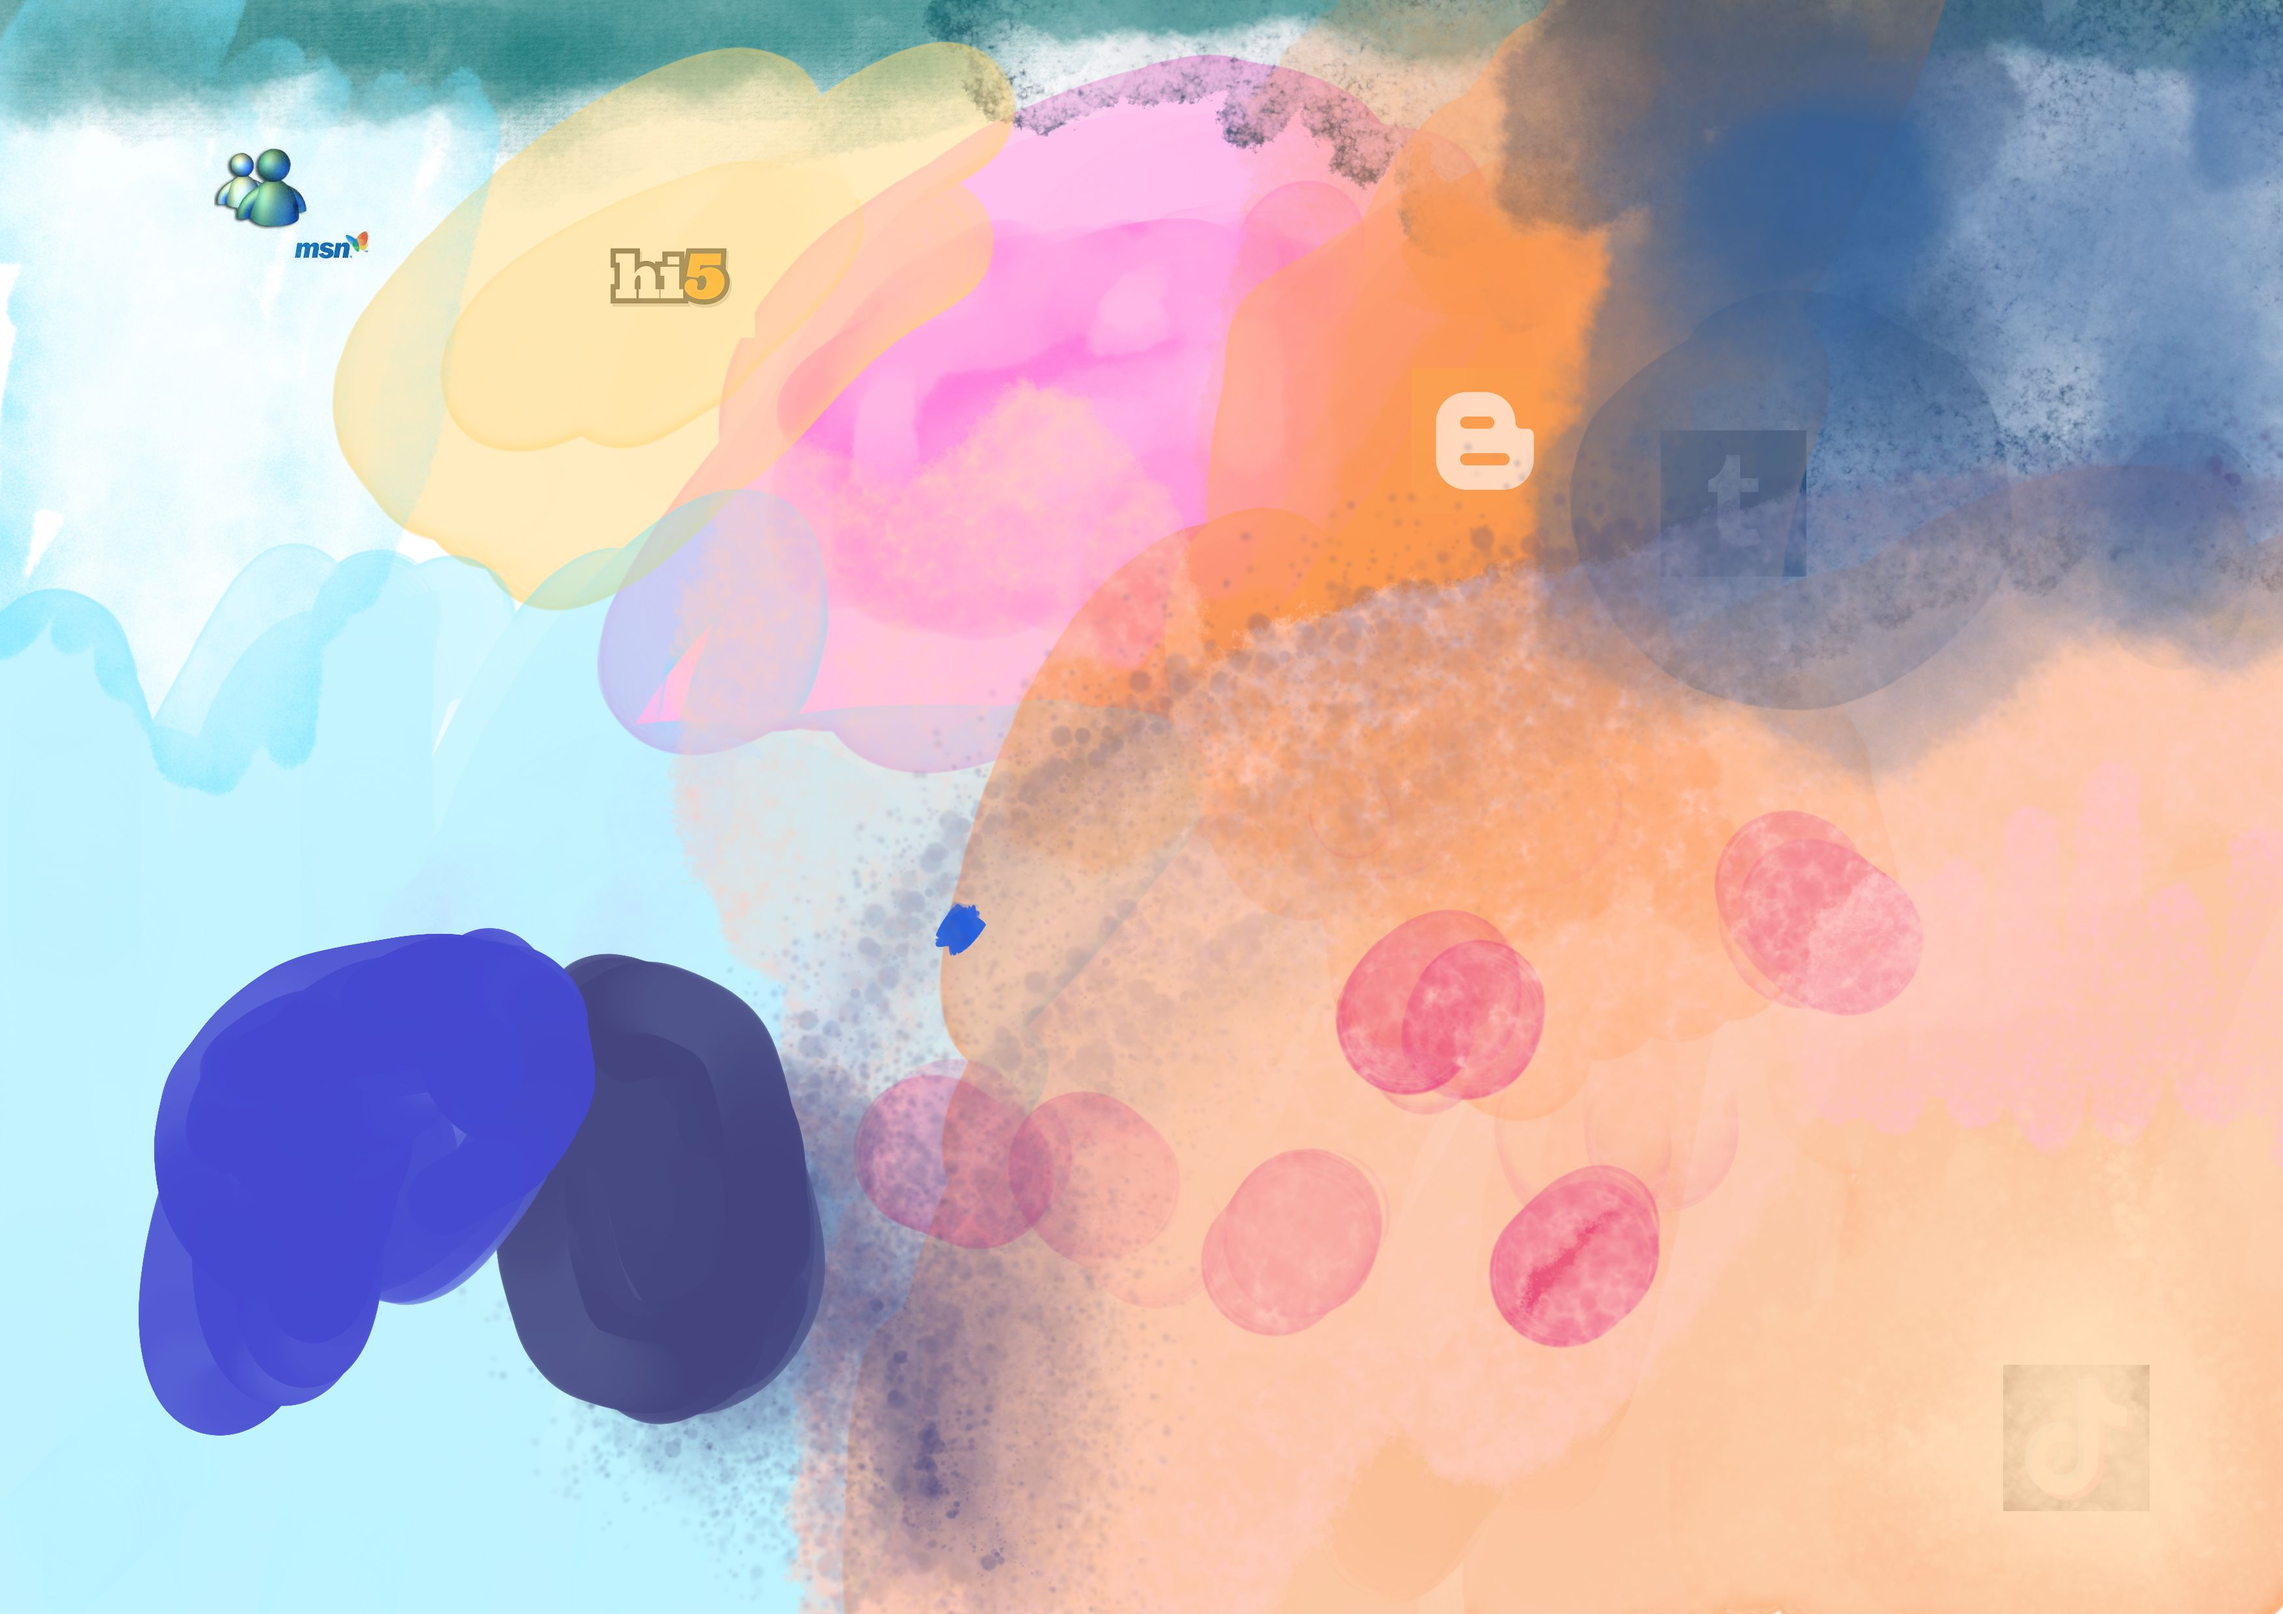
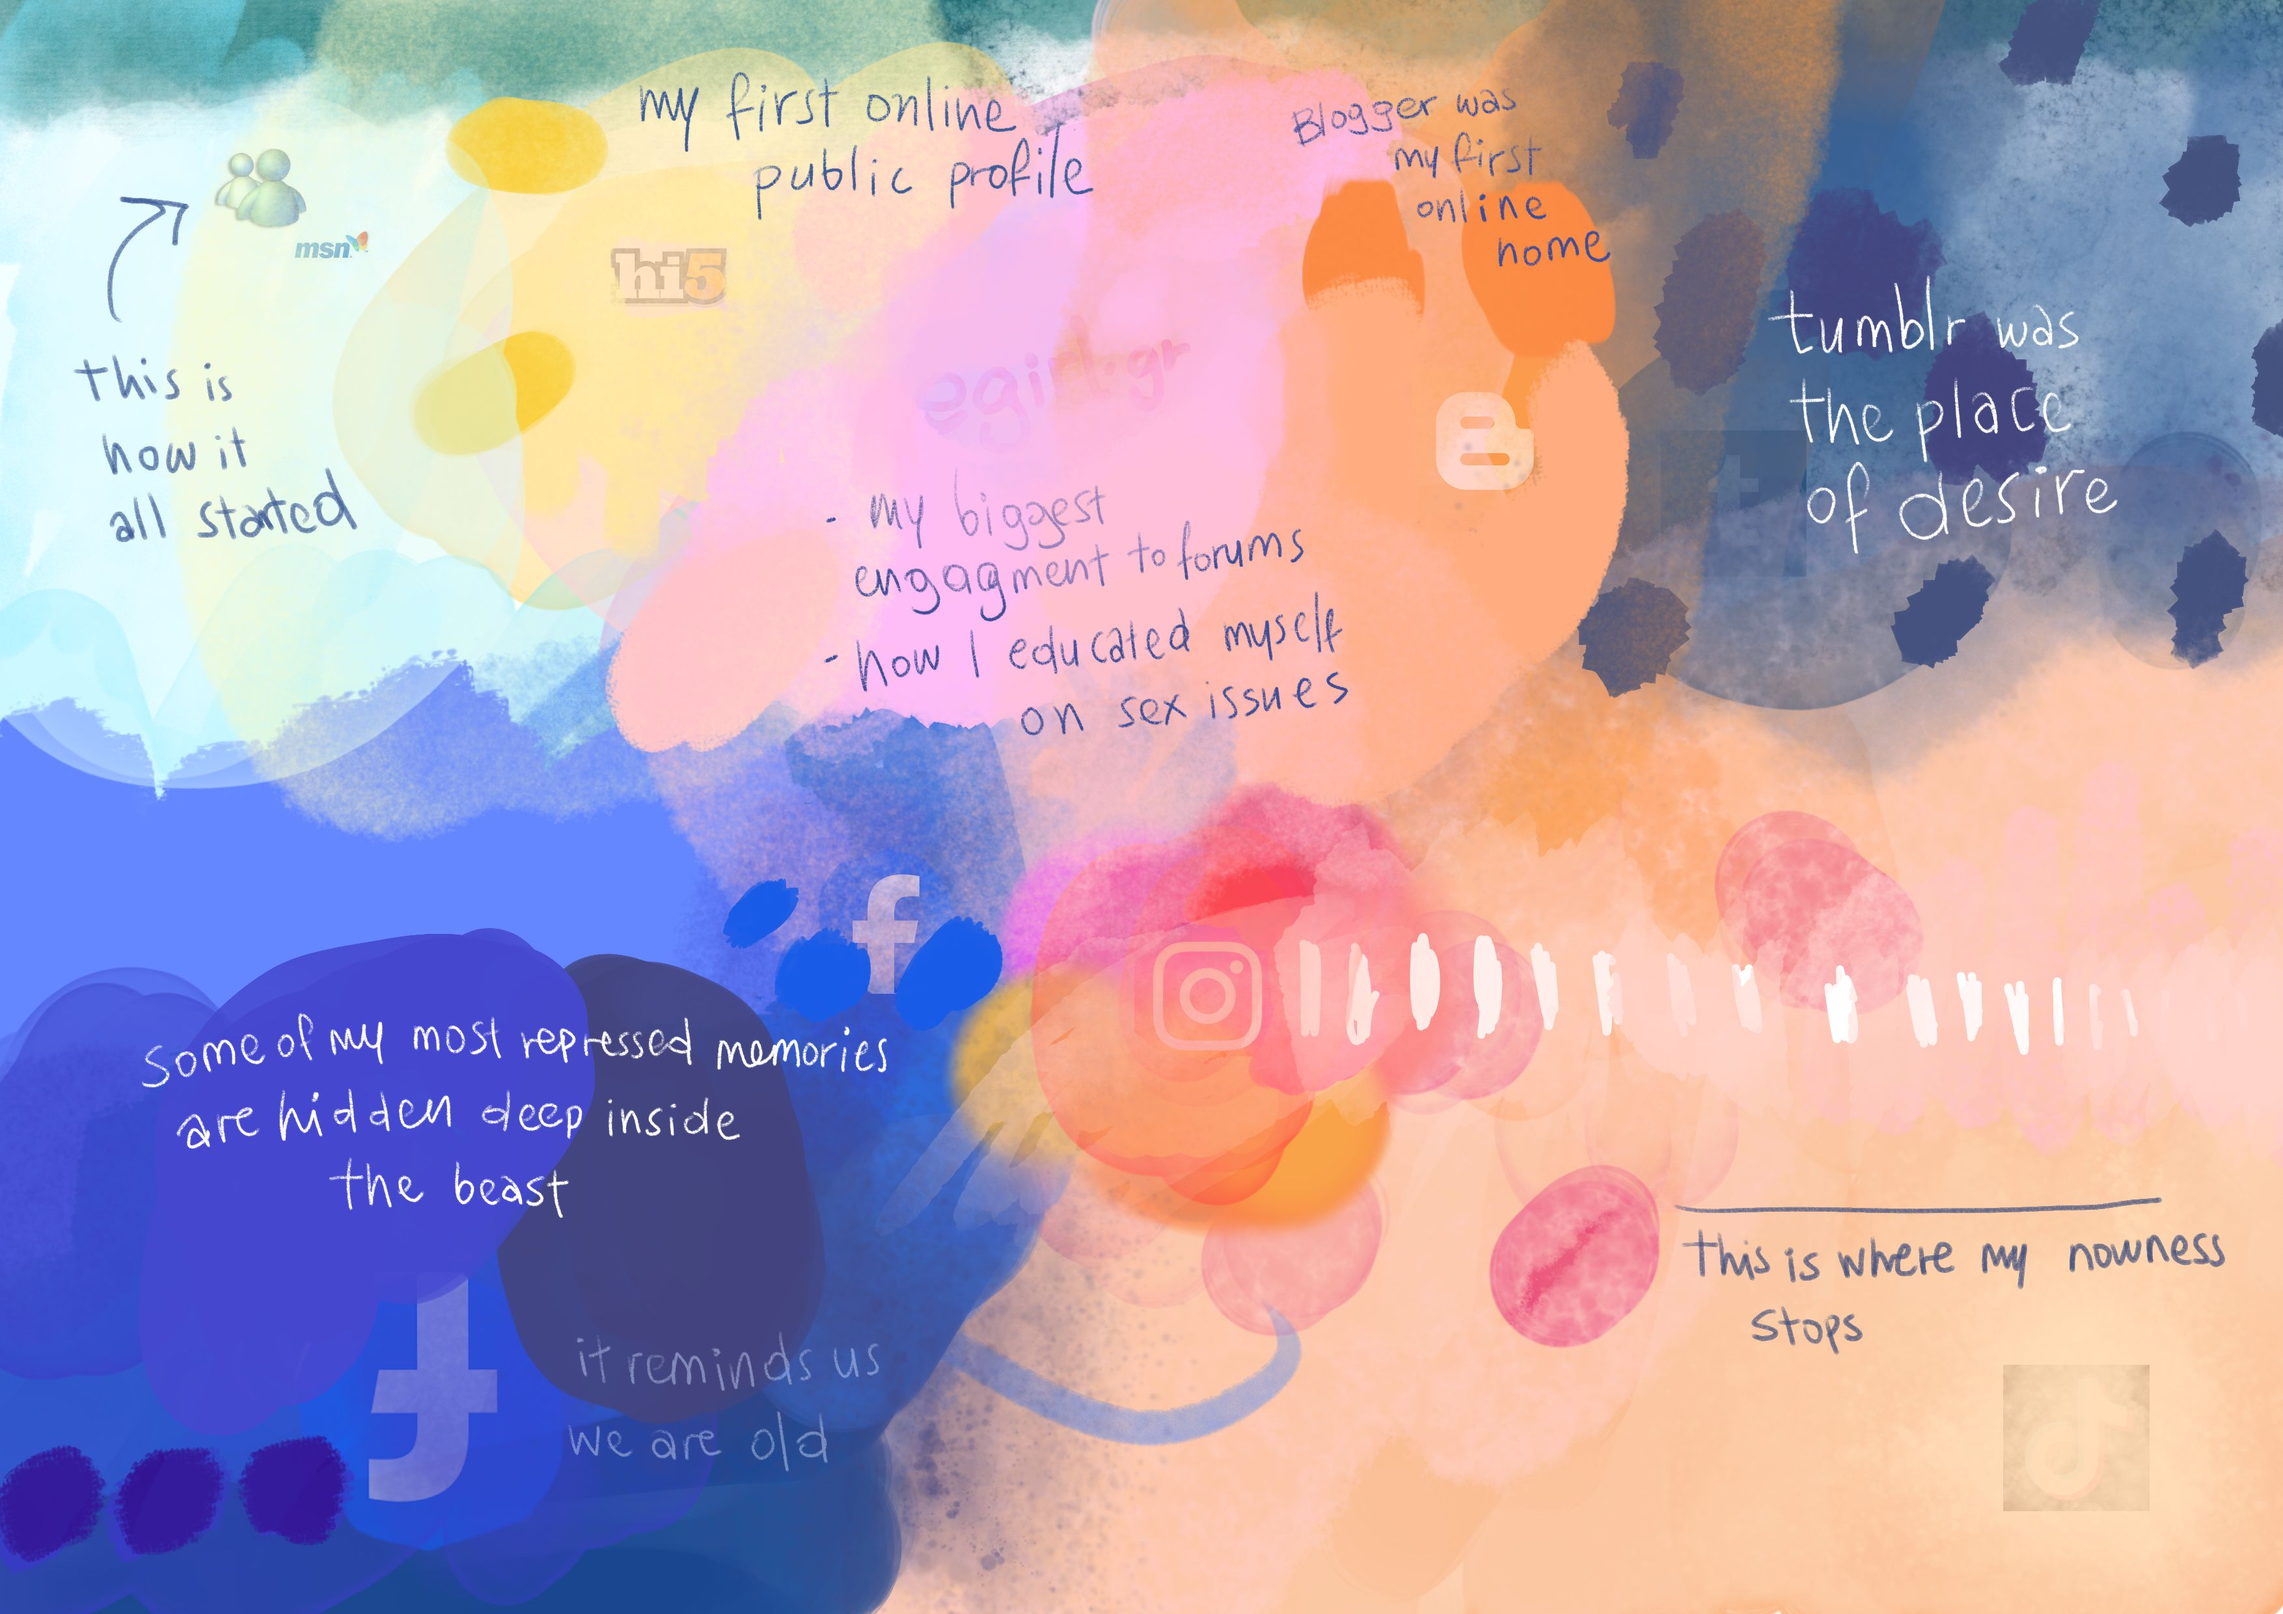
added scenes

diff --git a/sketch.js b/sketch.js
@@ -157,6 +157,37 @@ function preload() {
   let element25=loadImage("tumblr/Paint Layer 15.PNG")
   let element26=loadImage("tumblr/Paint Layer 16.PNG")
 
+  let element27=loadImage("digihistory-reorganizedlayers/Paint Layer 1.PNG")
+  let element28=loadImage("digihistory-reorganizedlayers/Paint Layer 3 Merged.PNG")
+  let element29=loadImage("digihistory-reorganizedlayers/Paint Layer 6.PNG")
+  let element30=loadImage("digihistory-reorganizedlayers/Paint Layer 7.PNG")
+  let element31=loadImage("digihistory-reorganizedlayers/Paint Layer 10.PNG")
+  let element32=loadImage("digihistory-reorganizedlayers/Paint Layer 11 Merged.PNG")
+  let element33=loadImage("digihistory-reorganizedlayers/Paint Layer 13.PNG")
+  let element34=loadImage("digihistory-reorganizedlayers/Paint Layer 17 Merged.PNG")
+  let element35=loadImage("digihistory-reorganizedlayers/Paint Layer 18 Merged.PNG")
+  let element36=loadImage("digihistory-reorganizedlayers/Paint Layer 19 Merged.PNG")
+  let element37=loadImage("digihistory-reorganizedlayers/Untitled23.png Merged.PNG")
+  let element38=loadImage("digihistory-reorganizedlayers/Paint Layer 22 Merged.PNG")
+  let element39=loadImage("digihistory-reorganizedlayers/Paint Layer 26.PNG")
+  let element40=loadImage("digihistory-reorganizedlayers/Paint Layer 38.PNG")
+  let element41=loadImage("digihistory-reorganizedlayers/Paint Layer 39.PNG")
+  let element42=loadImage("digihistory-reorganizedlayers/Paint Layer 41.PNG")
+  let element43=loadImage("digihistory-reorganizedlayers/Paint Layer 42.PNG")
+  let element44=loadImage("digihistory-reorganizedlayers/Paint Layer 45.PNG")
+  let element45=loadImage("digihistory-reorganizedlayers/Paint Layer 46.PNG")
+  let element46=loadImage("digihistory-reorganizedlayers/Paint Layer 47.PNG")
+  let element47=loadImage("digihistory-reorganizedlayers/Paint Layer 48.PNG")
+  let element48=loadImage("digihistory-reorganizedlayers/Paint Layer 52.PNG")
+  let element49=loadImage("digihistory-reorganizedlayers/Paint Layer 55.PNG")
+  let element50=loadImage("digihistory-reorganizedlayers/Untitled.png Merged.PNG")
+  let element51=loadImage("digihistory-reorganizedlayers/Paint Layer 57.PNG")
+  let element52=loadImage("digihistory-reorganizedlayers/Untitled5.png Merged.PNG")
+  let element53=loadImage("digihistory-reorganizedlayers/Paint Layer 58.PNG")
+  let element54=loadImage("digihistory-reorganizedlayers/Paint Layer 59.PNG")
+
+
+
 
 
 
@@ -167,13 +198,24 @@ function preload() {
     element0,element1,element2,element3,element4,element5,
     element6,element7,element8,element9,element10,element11,
     element12,element13,element14,element15,element16,element17,
-    element18,element19,,element20,element21,element22,element23,
-    element24,element25,element26];
+    element18,element19,element20,element21,element22,element23,
+    element24,element25,element26,element27,element28,element29,
+    element30,element31,element32,element33,element34,element35,
+    element36,element37,element38,element39,element40,element41,
+    element42,element43,element44,element45,element46,element47,
+    element48,element49,element50,element51,element52,element53,
+    element54];
 
   let scene0=loadImage("desk.jpg");
   let scene1=loadImage("digideer.jpg");
   let scene2=loadImage("tumblr.jpg");
-  scenes=[scene0,scene1,scene2]
+  let scene3=loadImage("digihistory.jpg");
+  let scene4=loadImage("messenger.jpg");
+  let scene5=loadImage("space.jpg");
+
+
+
+  scenes=[scene0,scene1,scene2,scene3,scene4,scene5]
 
 }
 
@@ -262,6 +304,7 @@ function draw() {
 
   //adding elements
   for (i=0; i<elementIndex; i++){
+    console.log('problem',elementIndex)
     let imageAspect = elements[elementIndex].width / elements[elementIndex].height;
   // This code naively crops the bottom or right edge of the image as necessary. Obviously there are other ways to limit the image size.
   if (windowAspect >= imageAspect) {
@@ -320,11 +363,12 @@ function changePoemPosition() {
   poemPositionY = random(height);
   // random
   // let newPoem = Math.floor(Math.random()*3);
-  poemOnDisplay = poems[poemIndex];
+
   poemIndex++;
   if(poemIndex>=poems.length){
     poemIndex=0;
   }
+  poemOnDisplay = poems[poemIndex];
 }
 
 
@@ -339,7 +383,7 @@ function addelementture(){
 function restart(){
   // clear()
   
-imageAspect = scenes[sceneIndex].width / scenes[sceneIndex].height;
+let imageAspect = scenes[sceneIndex].width / scenes[sceneIndex].height;
   // This code naively crops the bottom or right edge of the image as necessary. Obviously there are other ways to limit the image size.
   if (windowAspect >= imageAspect) {
     // Our window is wider than our image, we need to constrain the height of the image
@@ -352,12 +396,14 @@ imageAspect = scenes[sceneIndex].width / scenes[sceneIndex].height;
   }
   imageMode(CORNER);
   image(scenes[sceneIndex], 0, 0, windowWidth, windowHeight, 0, 0, w, h);
+
   sceneIndex++;
 
   if (sceneIndex>=scenes.length){
     sceneIndex=0;
   }
 
+  
   // console.log('restarted',scenes[sceneIndex])
 
 }
